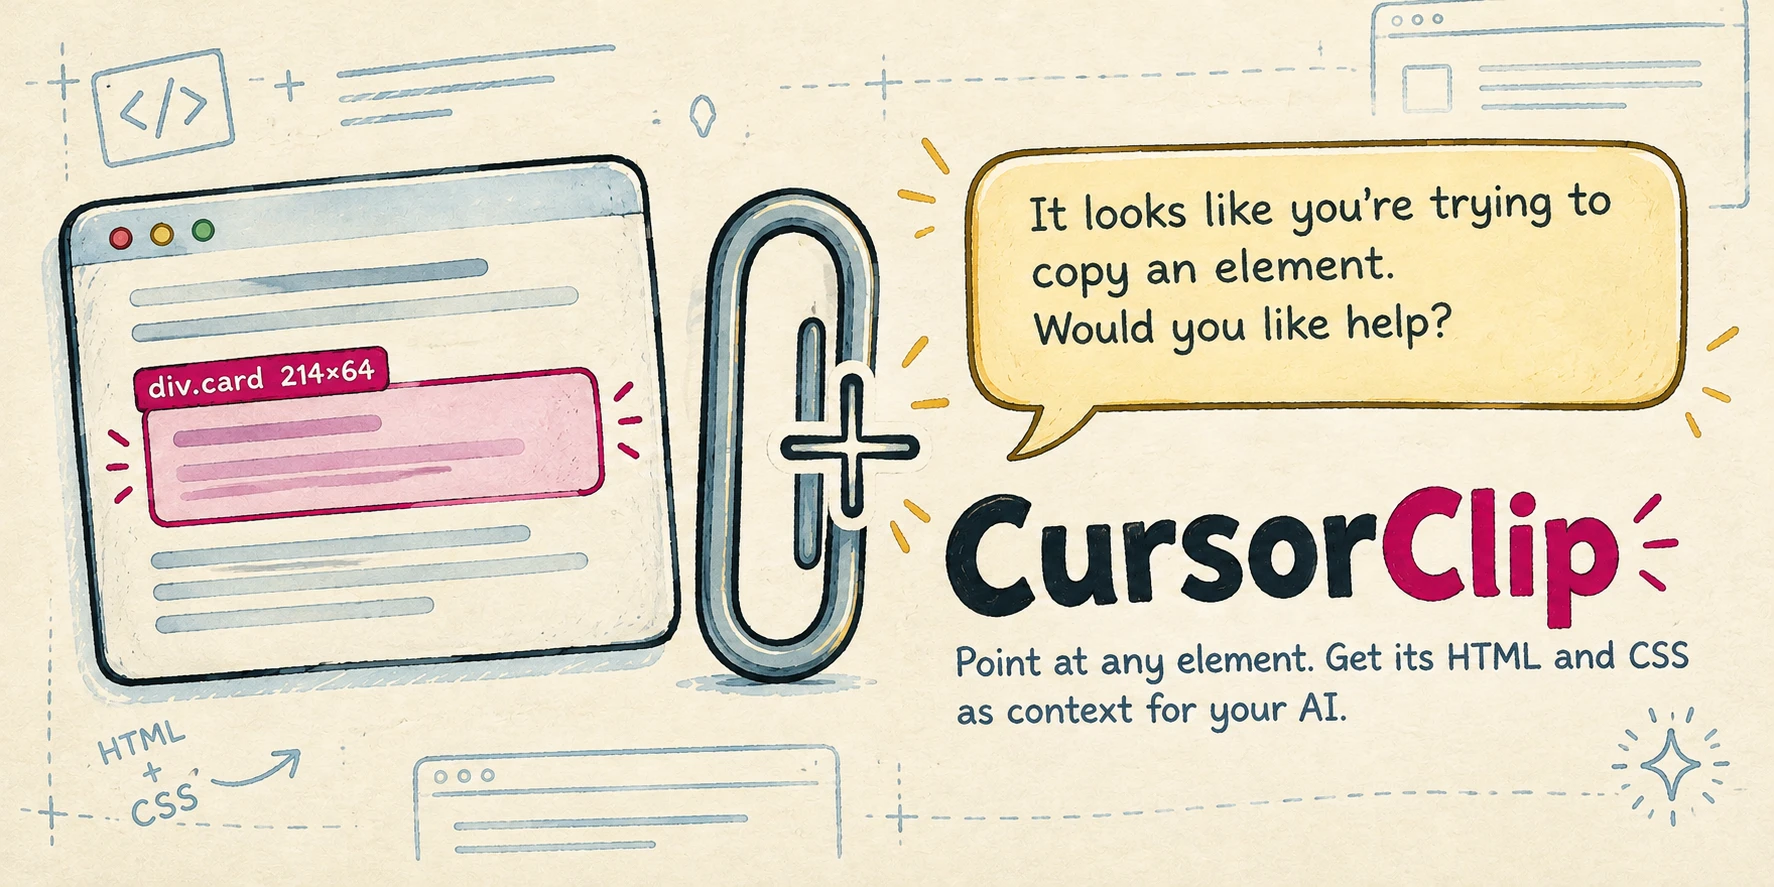
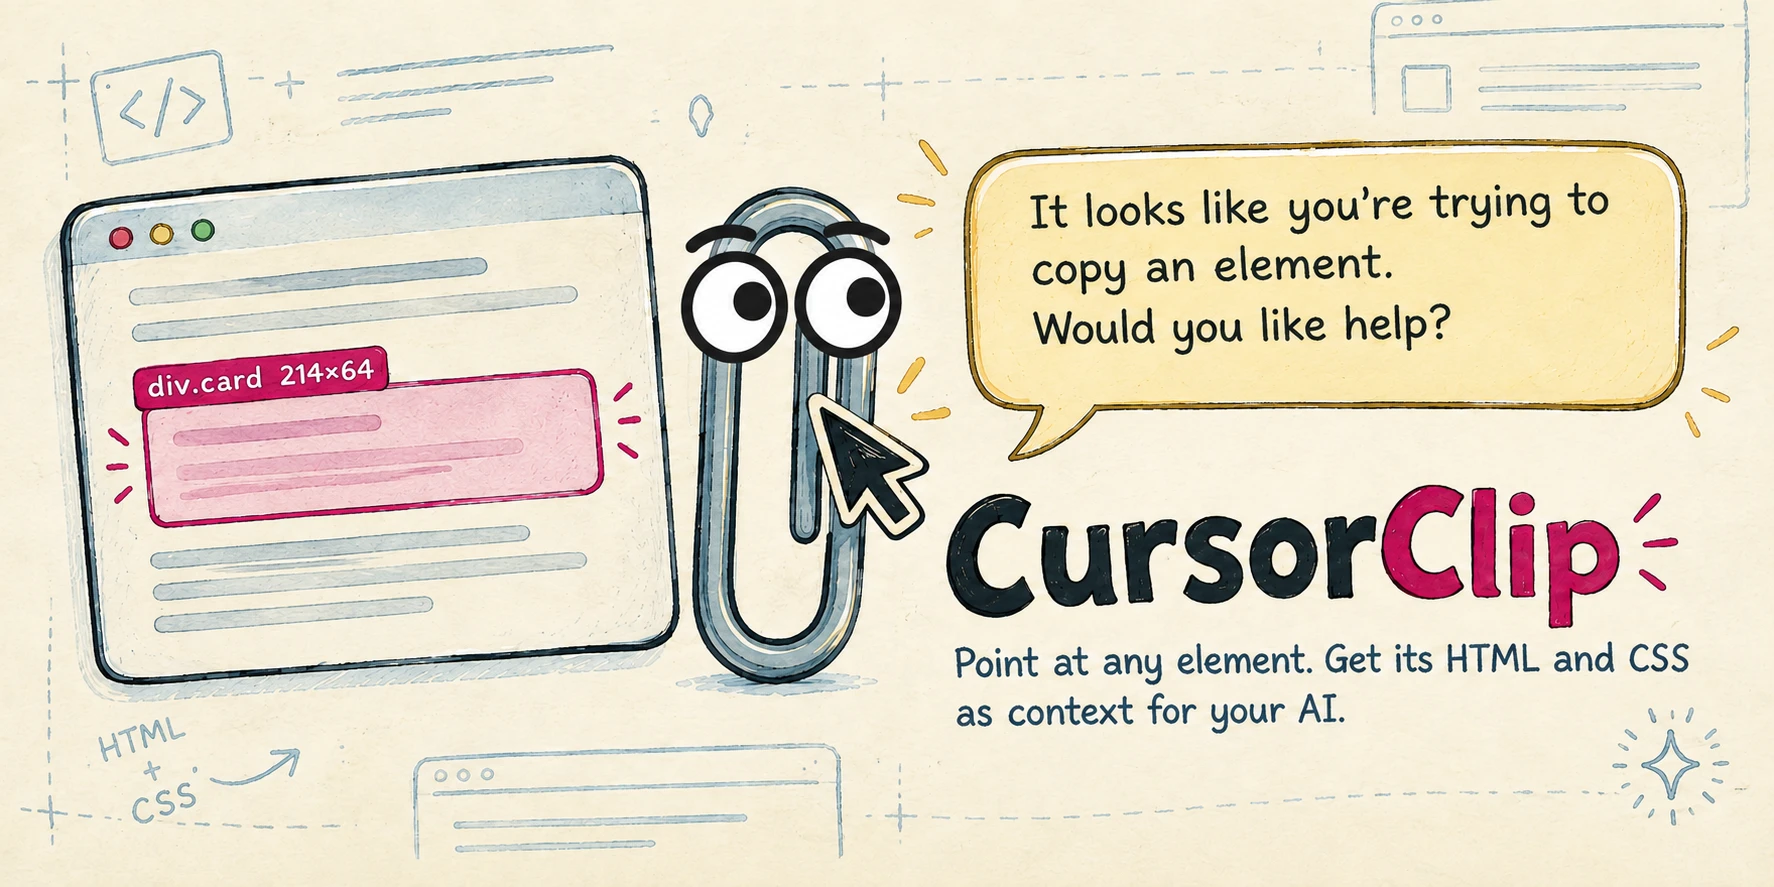
Icono nuevo de puntero y hero con el clip de ojos saltones

diff --git a/README.md b/README.md
@@ -1,5 +1,5 @@
 <p align="center">
-  <img src="docs/hero.webp" alt="CursorClip: next to a highlighted div.card, a paperclip holding a crosshair asks “It looks like you're trying to copy an element. Would you like help?”" width="880">
+  <img src="docs/hero.webp" alt="CursorClip: next to a highlighted div.card, a paperclip with big eyes and a mouse pointer asks “It looks like you're trying to copy an element. Would you like help?”" width="880">
 </p>
 
 [![CI](https://github.com/robmab/CursorClip/actions/workflows/ci.yml/badge.svg)](https://github.com/robmab/CursorClip/actions/workflows/ci.yml)
